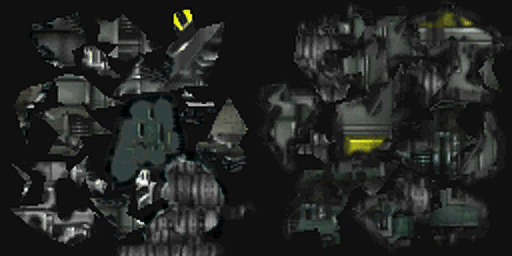
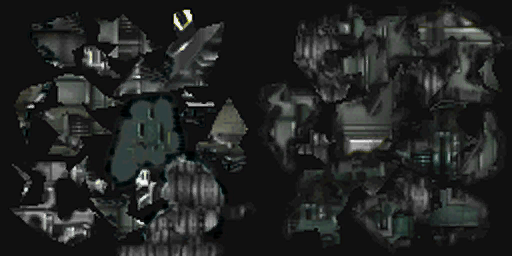
Fixed: debris scaling

Changed region(s): [[0.8125, 0.0312, 0.9375, 0.125], [0.6562, 0.5312, 0.75, 0.5938], [0.3125, 0.0312, 0.375, 0.125]]

diff --git a/Assets/Scripts/Ships/LargeShipFunctions.cs b/Assets/Scripts/Ships/LargeShipFunctions.cs
@@ -1,5 +1,6 @@
 using System.Collections;
 using System.Collections.Generic;
+using Unity.VisualScripting;
 using UnityEngine;
 
 public static class LargeShipFunctions
@@ -427,9 +428,11 @@ public static class LargeShipFunctions
 
                     ParticleFunctions.InstantiateExplosion(largeShip.scene.gameObject, largeShip.gameObject.transform.position, "explosion_largeship", explosionsScale, largeShip.audioManager, "proton_explosion2", 3000, "Explosions");
 
-                    HudFunctions.AddToShipLog(largeShip.name.ToUpper() + " was destroyed");
-
                     yield return new WaitForSeconds(0.25f);
+
+                    TriggerDebrisExplosion(largeShip.gameObject.transform.position, 50);
+
+                    HudFunctions.AddToShipLog(largeShip.name.ToUpper() + " was destroyed");
 
                     DeactivateShip(largeShip);
                 }
@@ -445,9 +448,13 @@ public static class LargeShipFunctions
 
                     ParticleFunctions.InstantiateExplosion(largeShip.scene.gameObject, largeShip.gameObject.transform.position, "explosion_largeship", explosionsScale, largeShip.audioManager, "proton_explosion2", 3000, "Explosions");
 
-                    HudFunctions.AddToShipLog(largeShip.name.ToUpper() + " was destroyed");
-
                     yield return new WaitForSeconds(0.25f);
+
+                    int scaleNumber = (int)Mathf.Abs(largeShip.shipLength / 100f);
+
+                    TriggerDebrisExplosion(largeShip.gameObject.transform.position, 50 * scaleNumber);
+
+                    HudFunctions.AddToShipLog(largeShip.name.ToUpper() + " was destroyed");
 
                     DeactivateShip(largeShip);
                 }
@@ -465,6 +472,56 @@ public static class LargeShipFunctions
         largeShip.explode = false;
 
         largeShip.gameObject.SetActive(false);
+    }
+
+    //This creates a debris exxplosions
+    public static void TriggerDebrisExplosion(Vector3 position, int debrisCount = 10)
+    {
+        Scene scene = SceneFunctions.GetScene();
+
+        List<GameObject> debrisPrefabs = new List<GameObject>();
+
+        foreach (GameObject objectPrefab in scene.shipsPrefabPool)
+        {
+            if (objectPrefab.name.Contains("debris02"))
+            {
+                debrisPrefabs.Add(objectPrefab);
+            }
+        }
+
+        float spawnRadius = 1;
+        float explosionForce = 100f;
+        float explosionRadius = 5f;
+        float upwardsModifier = 0.5f;
+        float debrisLifetime = 5f;
+        float scale = 0.005f;
+
+        for (int i = 0; i < debrisCount; i++)
+        {
+            // Pick a random prefab
+            GameObject prefab = debrisPrefabs[Random.Range(0, debrisPrefabs.Count)];
+            Vector3 spawnPos = position + Random.insideUnitSphere * spawnRadius;
+            GameObject debris = GameObject.Instantiate(prefab) as GameObject;
+
+            debris.transform.position = spawnPos;
+            debris.transform.rotation = Random.rotation;
+            debris.transform.localScale = new Vector3(scale, scale, scale);
+            debris.transform.parent = scene.transform;
+
+            // Ensure debris has Rigidbody
+            Rigidbody rb = debris.GetComponent<Rigidbody>();
+
+            if (rb == null)
+            {
+                rb = debris.AddComponent<Rigidbody>();
+            }
+
+            // Apply explosion force
+            rb.AddExplosionForce(explosionForce, position, explosionRadius, upwardsModifier, ForceMode.Impulse);
+
+            // Destroy debris after some time
+            GameObject.Destroy(debris, debrisLifetime);
+        }
     }
 
     #endregion
